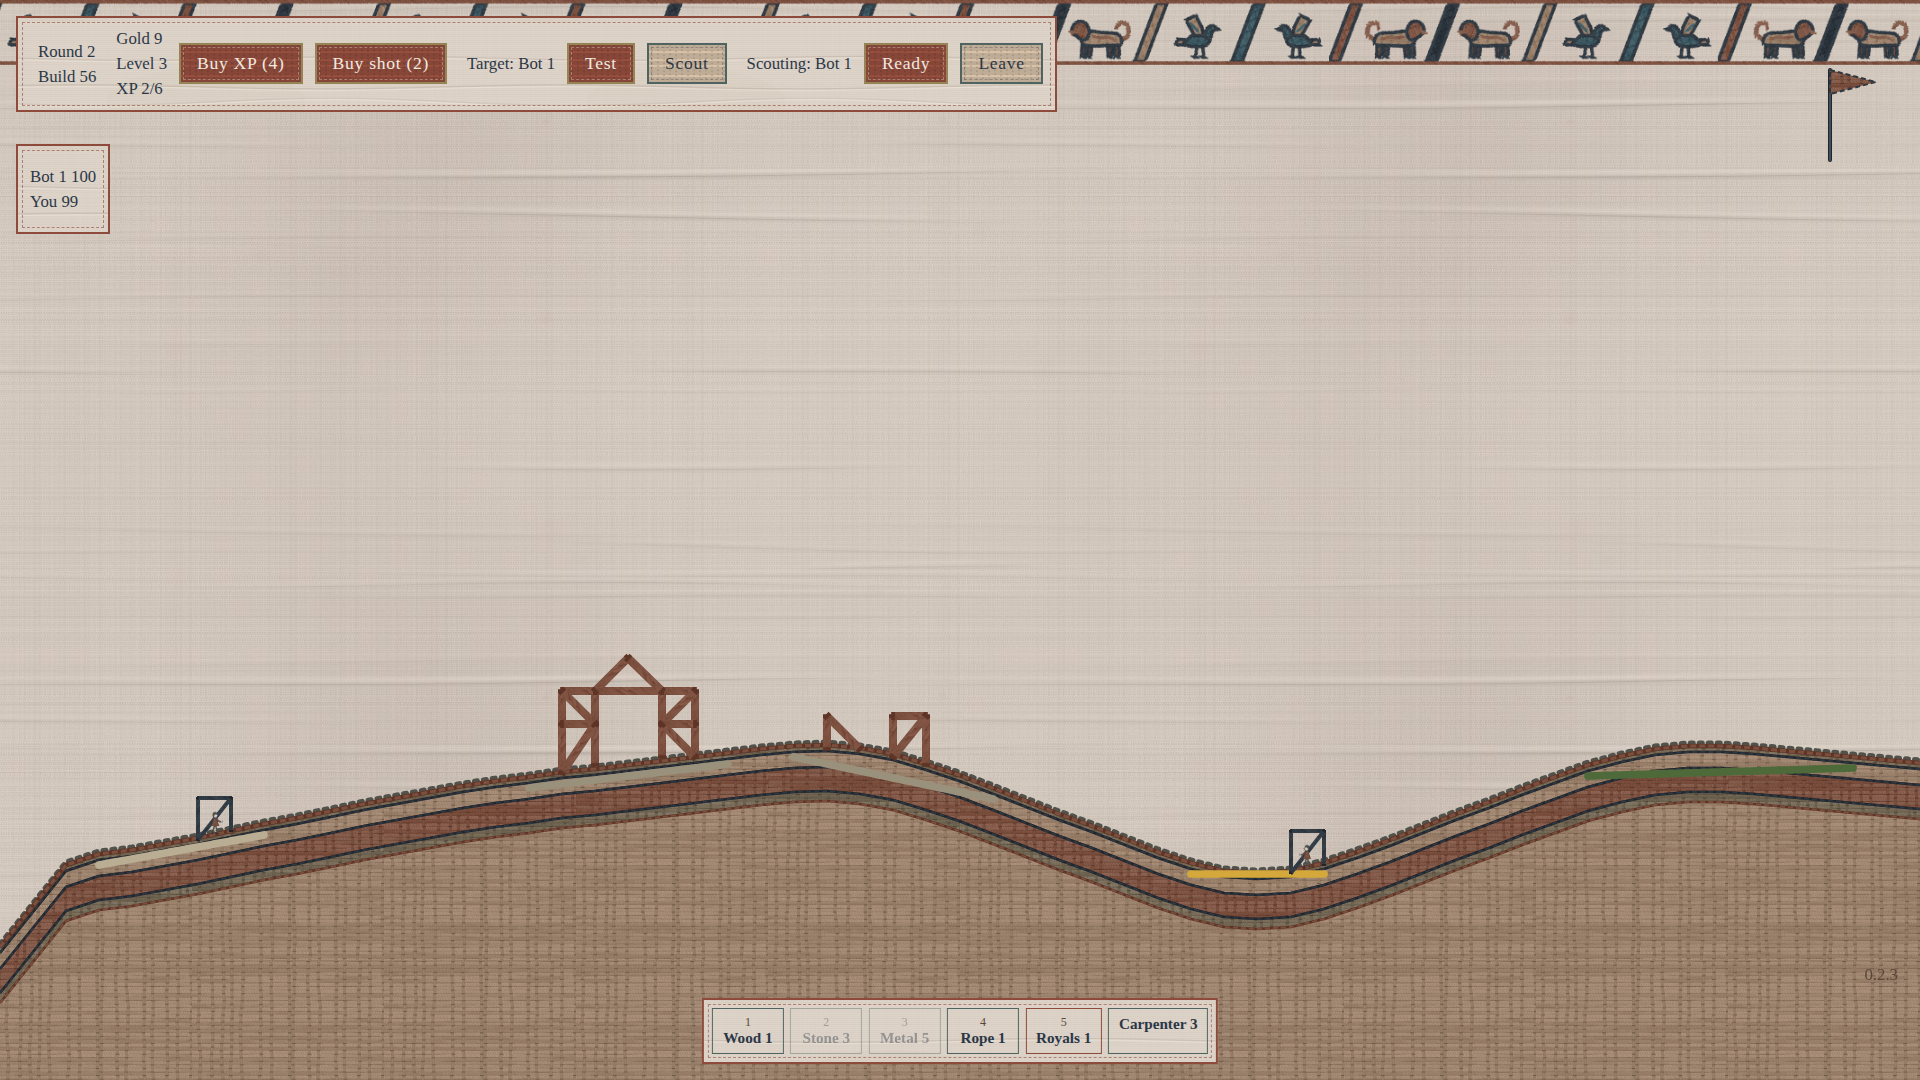
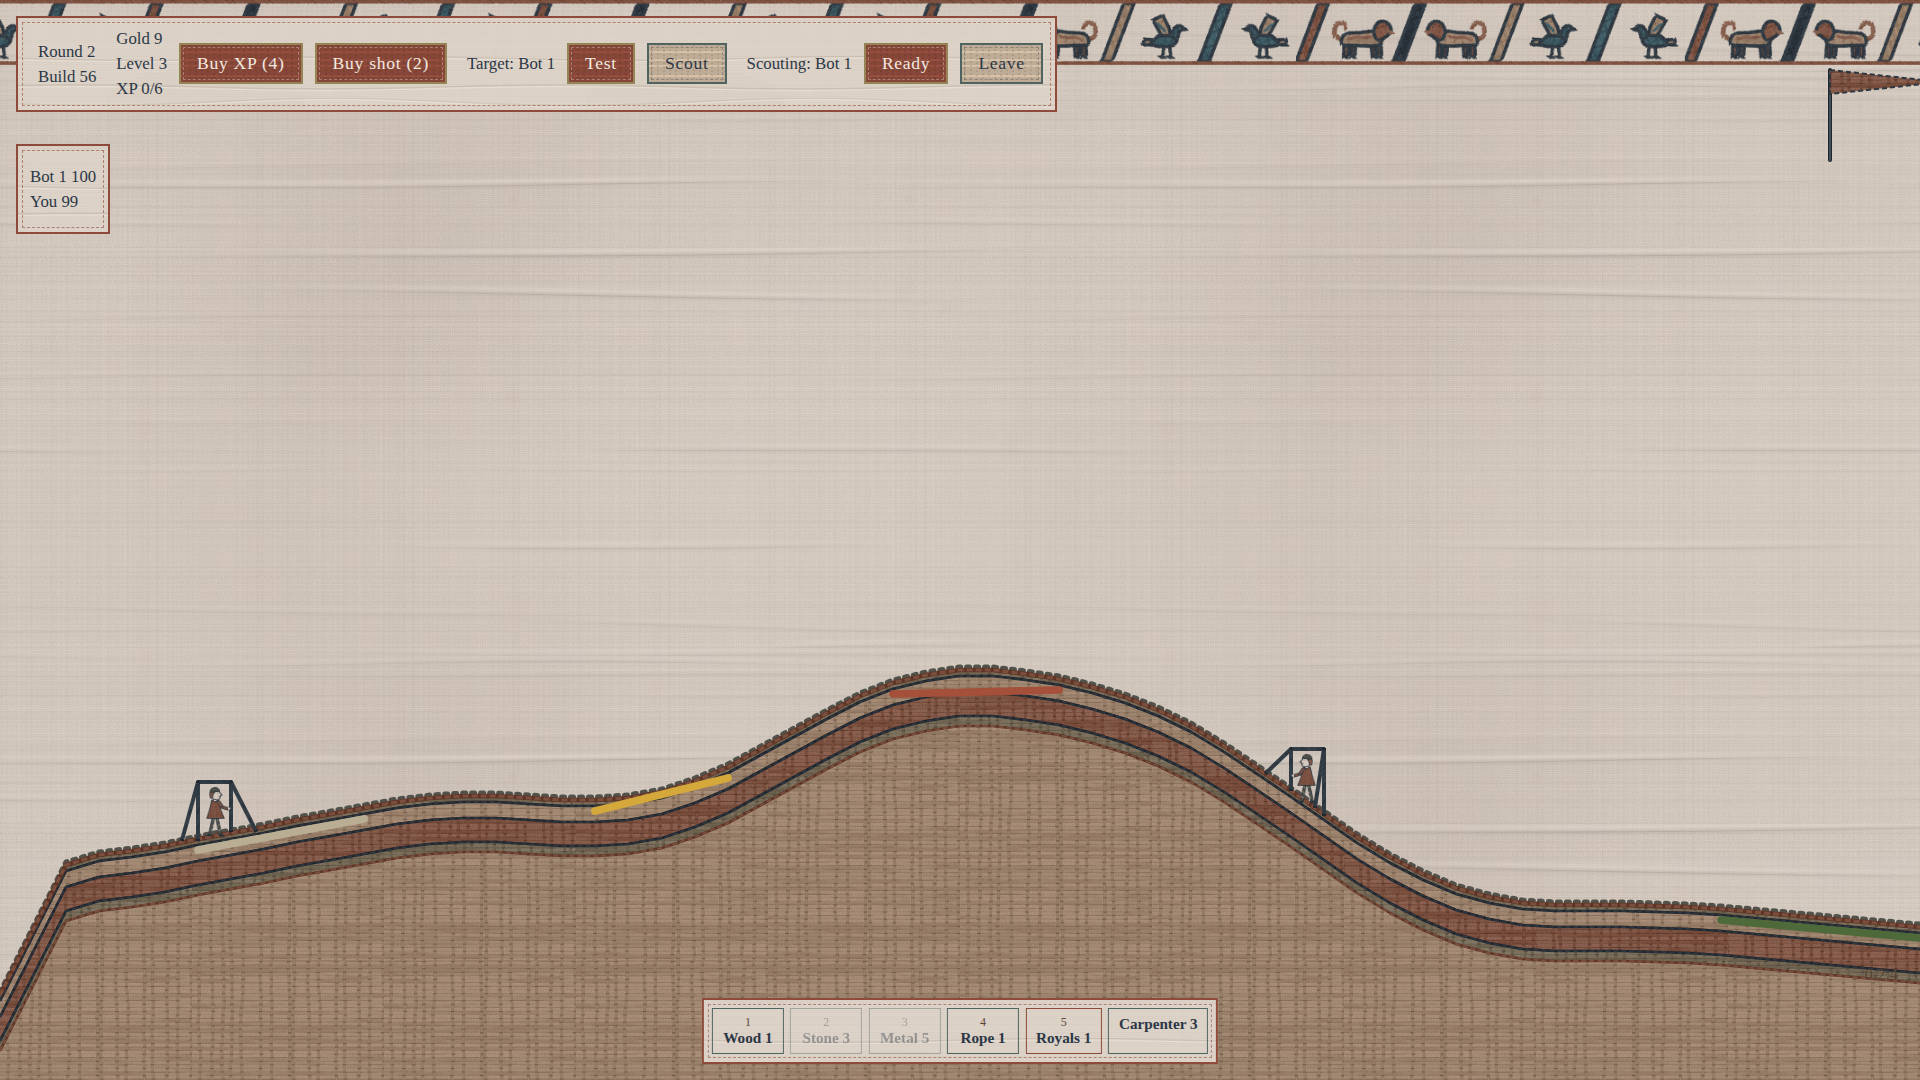
Bot huts and halls step over slopes; sandbox royals use the capsule (R1.2502, R1.2504)

diff --git a/crates/core/src/ai/build.rs b/crates/core/src/ai/build.rs
@@ -621,7 +621,7 @@ fn shelters(plot: &Plot, span: crate::terrain::ColRange, segs: &[SegPlan]) -> Ve
 /// A floor passes over `at` at least a hut's height above it (R1.2500): a
 /// level segment strictly across its x, so the royal's figure fits under it.
 fn roofed(segs: &[SegPlan], at: Vec2) -> bool {
-    let room = Fx::ratio(tune::HUT_TALL_QUARTERS, 4);
+    let room = Fx::ratio(tune::HUT_ROOM_EIGHTHS, 8);
     segs.iter()
         .any(|s| s.a.y == s.b.y && s.a.x.min(s.b.x) < at.x && at.x < s.a.x.max(s.b.x) && s.a.y - at.y >= room)
 }
@@ -747,10 +747,19 @@ fn frame(
     let q = |n: i64| Fx::ratio(n, 4);
     let x = |i: i64| units::col_x(c) + Fx::from_int(tune::BAY_UNITS) * i;
     let ground = |x: Fx| Vec2::new(x, snap(terrain.height_at(x)));
-    let top = (0..=bays).map(|i| ground(x(i)).y).max()?;
-    let roof = top + q(tune::HUT_TALL_QUARTERS);
+    // level roof the head room over every bay's middle, on the grid; the
+    // posts reach down to the ground each side, of different lengths on a
+    // slope (R1.2502)
+    let need = (0..bays)
+        .map(|i| ground(x(i) + Fx::from_int(tune::BAY_UNITS) / 2).y)
+        .max()?
+        + Fx::ratio(tune::HUT_ROOM_EIGHTHS, 8);
+    let roof = if snap(need) < need {
+        snap(need) + q(1)
+    } else {
+        snap(need)
+    };
     let at = |i: i64| Vec2::new(x(i), roof);
-    let reach = q(tune::HUT_STRUT_QUARTERS);
     let mut segs = Vec::new();
     let mut roofs = Vec::new();
     for i in 0..=bays {
@@ -759,8 +768,24 @@ fn frame(
     for i in 0..bays {
         roofs.push(push_seg(&mut segs, at(i), at(i + 1), Material::Wood)?);
     }
-    push_seg(&mut segs, ground(x(0) - reach), at(0), Material::Wood)?;
-    push_seg(&mut segs, ground(x(bays) + reach), at(bays), Material::Wood)?;
+    // a strut from each end post's top to the ground: outward as far as a
+    // beam reaches, else inward under the roof
+    for (end, out) in [(0, -1i64), (bays, 1)] {
+        let reaches = (1..=tune::HUT_STRUT_QUARTERS)
+            .rev()
+            .map(|k| k * out)
+            .chain((1..=tune::HUT_STRUT_QUARTERS).map(|k| -k * out));
+        let mut ok = false;
+        for k in reaches {
+            if push_seg(&mut segs, ground(x(end) + q(k)), at(end), Material::Wood).is_some() {
+                ok = true;
+                break;
+            }
+        }
+        if !ok {
+            return None;
+        }
+    }
     Some((segs, roofs))
 }
 

diff --git a/crates/core/src/app/sandbox.rs b/crates/core/src/app/sandbox.rs
@@ -60,8 +60,7 @@ const MAX_CATCH_UP: i64 = 4;
 const TRAIL_EVERY: u32 = 2;
 /// Ticks a Test runs the castle for.
 const TEST_TICKS: u32 = 240;
-/// A royal's body radius.
-const ROYAL_RADIUS: Fx = Fx::ratio(1, 4);
+use crate::play::tune::{ROYAL_RADIUS, ROYAL_UPRIGHT};
 /// One segment length, for the royal spacing (wood's longest, as play/ has it).
 const SEGMENT_LENGTH: Fx = Fx::from_int(2);
 /// Breaks in one frame that sound as a collapse.
@@ -371,7 +370,8 @@ impl Sandbox {
         self.ranks.clear();
         for seat in &self.royals {
             if let Some(Some(s)) = index.get(seat.beam) {
-                w.add_body(*s, seat.u, ROYAL_RADIUS);
+                let b = w.add_body(*s, seat.u, ROYAL_RADIUS);
+                w.bodies[b].tall = ROYAL_UPRIGHT;
                 self.ranks.push(seat.rank);
             }
         }
@@ -836,11 +836,12 @@ impl Sandbox {
     }
 
     fn sell(&mut self, p: Vec2) {
-        if let Some(k) = self
-            .royals
-            .iter()
-            .position(|s| (self.seat_pos(s) - p).len() <= ROYAL_RADIUS)
-        {
+        if let Some(k) = self.royals.iter().position(|s| {
+            // the royal's capsule (R1.2504): its feet on the seat
+            let foot = self.seat_pos(s) + Vec2::new(Fx::ZERO, ROYAL_RADIUS);
+            let near = Vec2::new(foot.x, p.y.clamp_to(foot.y, foot.y + ROYAL_UPRIGHT));
+            (near - p).len() <= ROYAL_RADIUS
+        }) {
             self.royals.remove(k);
         } else if let Some((i, _)) = self.beam_near(p, false) {
             self.beams.remove(i);

diff --git a/crates/core/src/ai/tune.rs b/crates/core/src/ai/tune.rs
@@ -100,11 +100,15 @@ pub const FLOOR_UNITS: i64 = 1;
 /// top), so a room is one segment tall and a royal fits under the floor
 /// above (R1.2500). A row with no floor is braced both ways below it.
 pub const ROOM_ROWS: i64 = 2;
-/// A hut (R1.2500): posts this many quarter units tall over the higher
-/// ground, each held by a strut out to the ground this many quarters
-/// beyond it, so five wood beams make a stiff shelter a royal fits under.
-pub const HUT_TALL_QUARTERS: i64 = 7;
+/// A hut (R1.2500): two posts down to the ground, a level roof between
+/// them and a strut from each post's top to the ground, out to this many
+/// quarter units beyond it where a beam reaches, so five wood beams make a
+/// stiff shelter a royal fits under.
 pub const HUT_STRUT_QUARTERS: i64 = 3;
+/// Head room a hut's or hall's roof leaves over the ground at each bay's
+/// middle, in eighths: the figure (3/2) and half a wood beam, rounded up
+/// to the grid (R1.2502).
+pub const HUT_ROOM_EIGHTHS: i64 = 13;
 
 /// Columns kept clear between the plot's front edge and the castle.
 pub const FRONT_SETBACK: usize = 4;

diff --git a/SECOND-ORDER.md b/SECOND-ORDER.md
@@ -226,10 +226,10 @@ One row per assumption, surprise or open item. **Kind** is *divergence* (what wa
 | R1.2401 | divergence | Hut posts kept at one cell | Measured on seeds 1-3, rounds 1-4: the least head room under any bot royal is 0.89 cell (huts and keep floors), side room 0.44 cell each way, so an 11/16 figure fits with room to spare; I did not raise the hut posts. Only level beams count as the roof: a hut's brace crosses the royal at half height, and the figure is drawn in front of it as a figure stands in front of a timber frame | | `ai/tests.rs` `figure_room` | done |
 | R1.2402 | finding | Break test: royal figure fits under cover | With FIGURE_TALL 15/16 the test fails (`FIGURE_TALL <= HEAD_ROOM`); caught by `break_tests.py`. Two older rows are rotted (their text is gone): "botai: castle royals keep spacing" (ai/build.rs) and "play: a shot that hits a royal kills it" (play/siege.rs) | Repair the two rotted rows | `tests/breaks.json` | open |
 | R1.2500 | divergence | Royals sized to rooms (coordinator: about 1.5 cells tall; R1.2400 figures were 15-20 px specks) | A royal's body is now a capsule, its figure's shape: every point within 5/16 cell of an upright 7/8 cell tall, feet on the lower circle's bottom, so it is 1.5 cells tall and 5/8 wide. Hits, crushes, blasts, fuses and the bots' aim measure from the nearest point of the upright (`Body::nearest`, `Body::touches`); standing, falling and Fell are unchanged (feet only). Head room is a room one segment tall less half a stone beam above and below: 7/4. Figures are drawn 1.5 cells tall (`Figure.tall`), about 60-100 px at build zoom. Royal spacing kept at 4 segments (the Close Quarters upgrade names it) | | `physics/bodies.rs` Body.tall; `play/tune.rs` ROYAL_RADIUS, ROYAL_UPRIGHT, HEAD_ROOM, FIGURE_TALL, FIGURE_WIDE | done |
-| R1.2501 | divergence | Bot castles in rooms one segment tall | Floors every 2 rows (and on top), the row below a missing floor braced both ways so its middle knots hold; huts and one-room keeps are a frame of five beams (posts 7/4 cell, roof, an outward strut from each end post) where the ground is level enough, else a braced room one bay by two rows (8 beams). With no keep affordable (round 1 has 5 gold) the bot builds huts alone, leaving the keep's front site free; while a royal is left uncovered the keep may spend the producers' gold. FIGURE_WIDE is the torso (5/8 to 3/4): an arm held out may pass in front of a post. The bots' cover check (`roofed`) now wants a level beam at least 7/4 over the royal | Rooms cost about twice the old one-row floors | `ai/build.rs` frame, hut_frame, roofed, rooms; `ai/tune.rs` ROOM_ROWS, HUT_TALL_QUARTERS, HUT_STRUT_QUARTERS | open |
-| R1.2502 | finding | Bot castle test still fails | `ai_bot_castle_grows_every_round_and_stands` seed 1: round 6-7 the sixth royal finds no covered spot kept the spacing from the other five (5 covered of 6); the castle stops growing at 23 beams until round 8. `ai_bot_royal_figures_fit_under_their_cover` passes at the new size. Likely causes: framed huts need nearly level ground so sites pack worse, and two-room keeps fall back to the costlier braced rows | Next: let a hall grow over a slope (posts cut to the ground) or let the keep take an old hut's site; time box ran out | `ai/tests.rs` | person |
+| R1.2501 | divergence | Bot castles in rooms one segment tall | Floors every 2 rows (and on top), the row below a missing floor braced both ways so its middle knots hold; huts and one-room keeps are a frame of five beams (posts down to the ground, of different lengths on a slope; a level roof 13/8 cell over each bay's middle ground, rounded up to the grid; a strut from each end post's top, outward up to 3/4 cell where a beam reaches, else inward), else a braced room one bay by two rows (8 beams). With no keep affordable (round 1 has 5 gold) the bot builds huts alone, leaving the keep's front site free; while a royal is left uncovered the keep may spend the producers' gold. FIGURE_WIDE is the torso (5/8 to 3/4): an arm held out may pass in front of a post. The bots' cover check (`roofed`) now wants a level beam at least 13/8 over the royal | Rooms cost about twice the old one-row floors | `ai/build.rs` frame, hut_frame, roofed, rooms; `ai/tune.rs` ROOM_ROWS, HUT_ROOM_EIGHTHS, HUT_STRUT_QUARTERS | done |
+| R1.2502 | finding | Bot castle test failed after R1.2501 (fixed) | Seed 1, rounds 6-7: the sixth royal had no covered spot, because framed huts needed level ground and the braced room on a slope cost 8 gold against 5-7 a round. Coordinator: halls and huts step over a slope with posts of different lengths; a keep may take an old hut's site. The first was enough: with sloped frames `ai_bot_castle_grows_every_round_and_stands` passes (seeds 1-6, 8 rounds), so I did not build the hut takeover | Keep taking a hut's site, if a later seed needs it | `ai/build.rs` frame; `ai/tune.rs` HUT_ROOM_EIGHTHS | done |
 | R1.2503 | divergence | Bot buildings in `to_world` | Producers in a bot's test world now stand with the building radius (1/2), not a royal's, and the planner picks royals by radius and upright, so a building is never taken for a royal | | `ai/build.rs` to_world; `ai/planner.rs` royal_targets | done |
-| R1.2504 | divergence | Sandbox royals unchanged | The physics sandbox (`app/sandbox.rs`) keeps its own 1/4-cell royal circle with no upright | | `app/sandbox.rs` ROYAL_RADIUS | open |
+| R1.2504 | divergence | Sandbox royals use the capsule | The physics sandbox's royals take the match's radius and upright, and a click picks a royal anywhere on its capsule | | `app/sandbox.rs` build, sell | done |
 | R1.2104 | finding | The sandbox's trebuchet | Still releases on whole ticks: `Sandbox::pump` gets no press time (left alone, the field agent works in that area) | Give it `press_part` the same way if the sandbox is meant to aim finely; done in R1.2202 | `app/sandbox.rs` | done |
 | R1.2200 | divergence | Brief: the siege view showed empty linen left of the world at siege start (trebuchet at x 14, far right of the screen) | No view was ever held inside the world. The aim view starts 6 units behind the trebuchet, but the flight view (left at the ball, the castle frame, or home) and the settled castle frame (centered on the castle) could start left of 0, and the eased eye eases its left edge and its zoom apart, so a mid-ease view swung past 0 too | `Camera::kept_in(right)` moves a view inside `0..world_right(plot)` and narrows one wider than the world (bottom kept). Applied to every siege target, the build view, the eased eye after each easing step, and the sandbox's target and eye. The aim view already puts the trebuchet a quarter in or less (6 of 24-44 units) | tests `arena_the_siege_view_never_shows_past_the_world_edges`, `camera_kept_in_never_shows_past_the_world_edges`; `app/field.rs` `kept_in`, `world_right` | open |
 | R1.2201 | divergence | R1.1800: the sandbox view jumps once the 0.4 s hold ends | The sandbox had no eased eye | `Sandbox` keeps an `eye` eased toward `camera_target` each tick with the match's `CAM_EASE`; a mode switch snaps it. `camera()` is the shown view, `camera_target()` where it heads (the old camera test now reads the target) | test `sandbox_view_eases_after_the_hold_instead_of_jumping`; `Sandbox::move_eye` | open |
